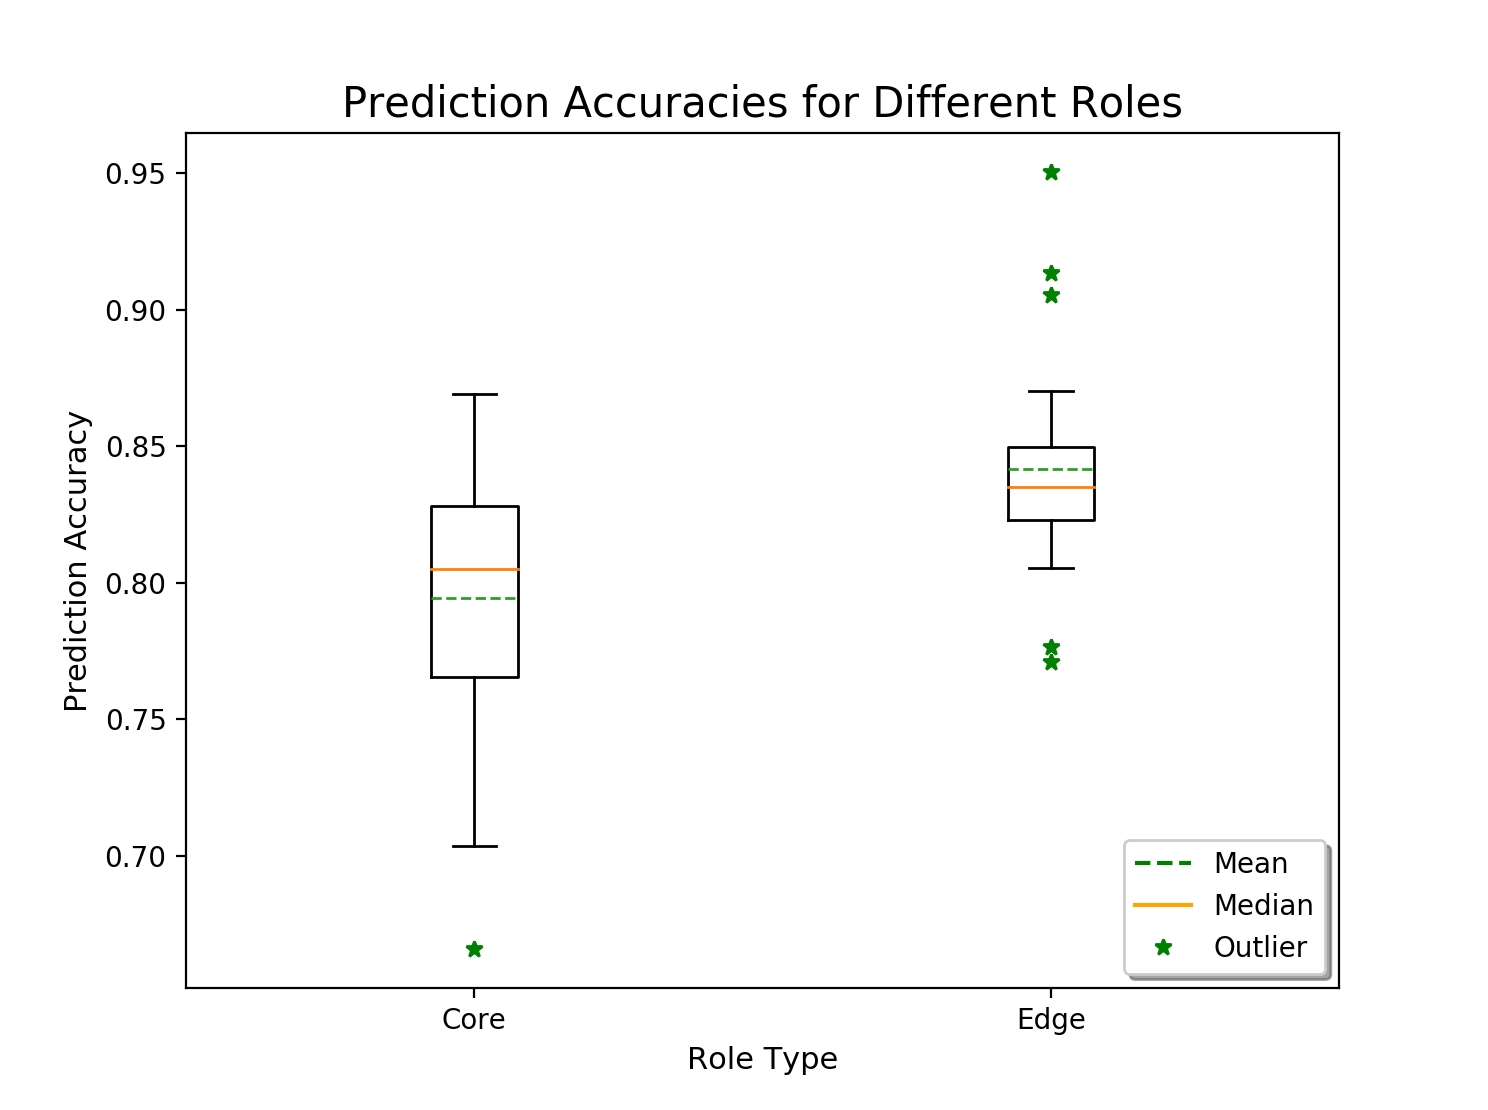
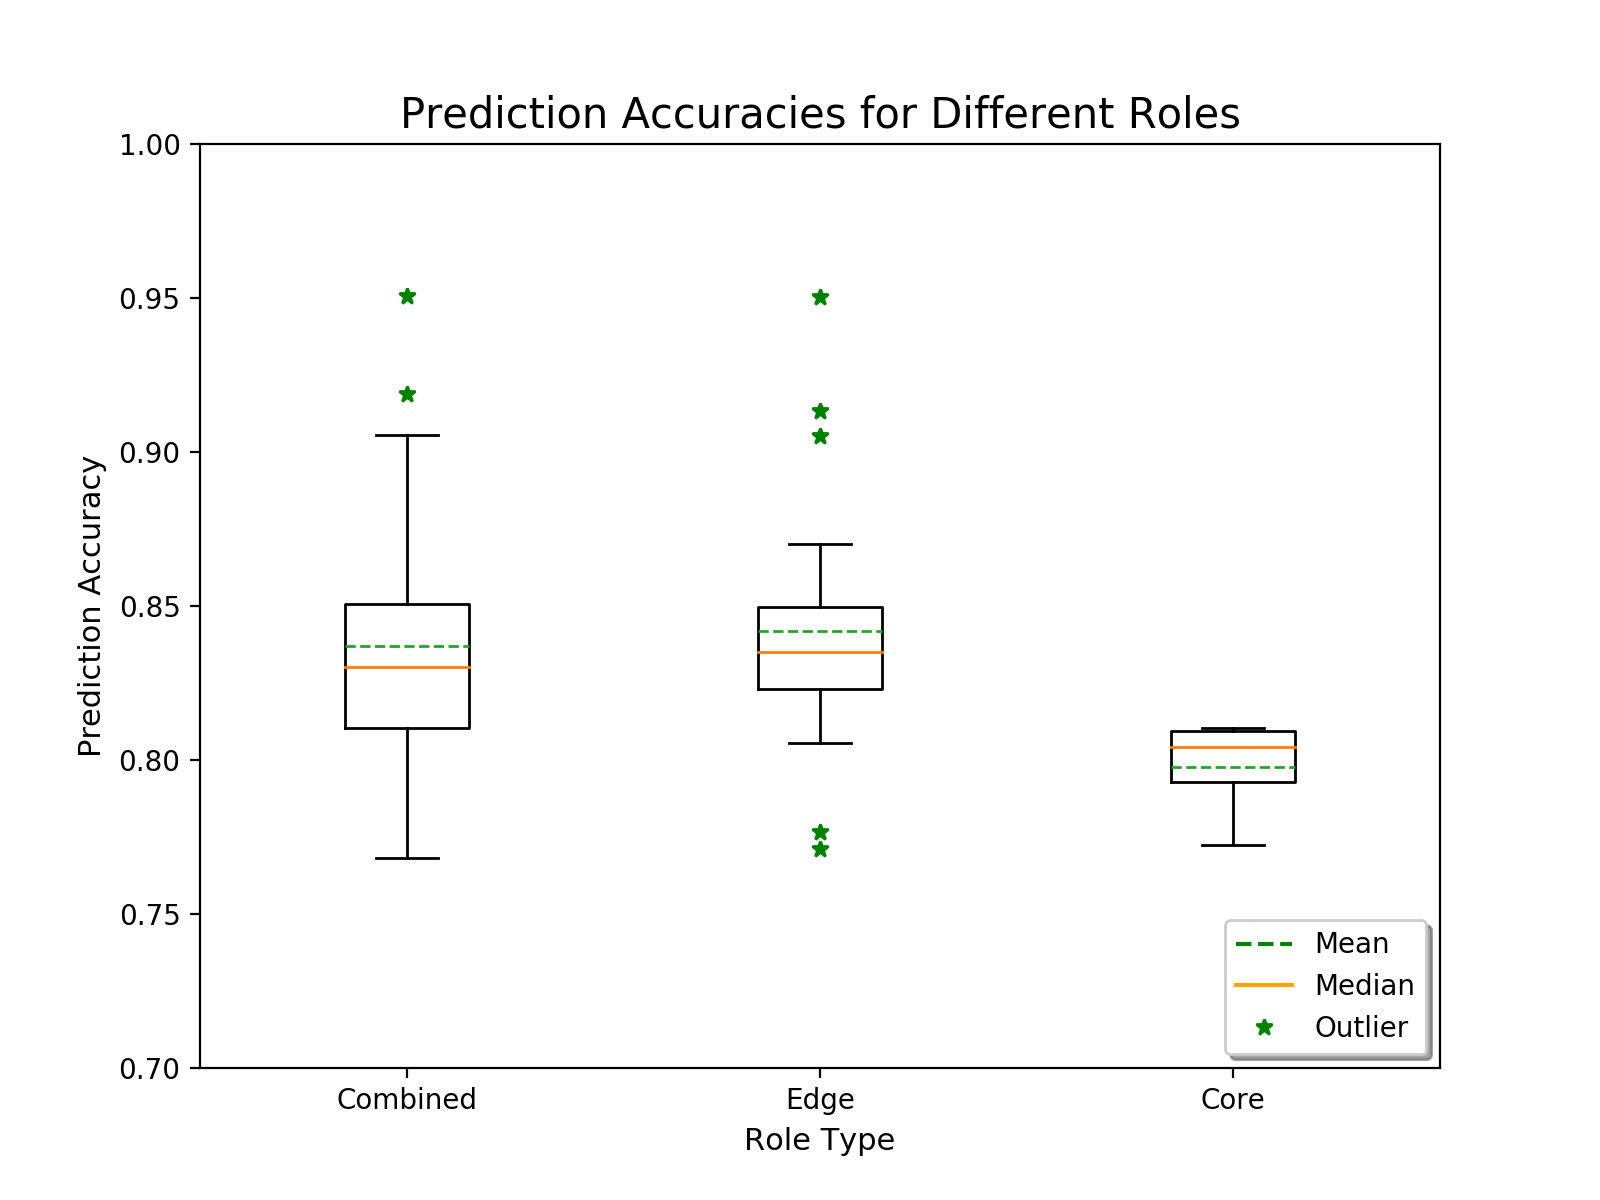
Updating results section

diff --git a/Final-Thesis/evaluation.tex b/Final-Thesis/evaluation.tex
@@ -25,20 +25,34 @@ Initially, without any preprocessing and subnet removal, we observed a maximum a
 
 There were a myriad of analyses we performed in order to test the efficacy of an ngram-based engine as described in the previous section. In this paper we discuss some which produced interesting results.
 
-\subsection{Role-Based}
+\subsubsection{Role-Based}
 
 \begin{figure}[H]
 	\centering
 	\includegraphics[width=\textwidth]{roles.png}
-	\caption{Accuracies of models were trained on core and edge routers only.}
+	\caption{Accuracies of models were trained on core and edge routers only, with the first boxplot showing the combined training set}
 \end{figure}
 
-Training models based on different roles improved accuracies in some cases but not others.
+Splitting by roles did not result in an improvement in accuracy like we expected. There are a few factors that could be contributing to this result. It might be possible that there is not much variation in the two roles to begin with. We were assuming that the suggestions generated by the "combined" version would contain the tokens for both edge routers and core routers which would reduce the chances of the correct one cropping up in the top 3 suggested tokens. However, the results show that after separation, edge routers did not fare any better and core routers actually did worse. We also beleive that this may be a problem of the labels/roles being coarsely defined as we were relying on the names of the routers to separate them. It is entirely possible that network operators may be labeling the routers as a rough approximation of their intended roles. Thus researchers may need to figure out a more fine grained way about dividing them.
 
-\subsection{histories}
+\subsubsection{histories}
 
-As we had extensive data from University A's version control system, we analyzed the effect of selecting configurations across time on prediction accuracies. The x-axis of the graph shows the number of months we chose to train on.
+\begin{figure}[H]
+	\centering
+	\includegraphics[width=\textwidth]{time.png}
+	\caption{Longer histories may not result in higher accuracies.}
+\end{figure}
 
-\subsection{Per-Stanza}
+As we had extensive data from University A's version control system, we analyzed the effect of selecting configurations across time on prediction accuracies. The x-axis of the graph shows the number of months we chose to train on. As is apparent from the image, if we train on longer configuration histories our accuracies stay about the same. In fact, we see a slight decrease which may be attributed to the variation introduced by the increased data points. We do expect some change in the configurations over time as the university networks evolve. However, these changes tend to be small and homogeneous as the analyses from from ~\cite{Kim} inform us. Thus, our model does not need to consider configurations across 4 years for this university.
 
-\subsection{No starting datat}
+\subsubsection{Number of Devices}
+\begin{figure}[H]
+	\centering
+	\includegraphics[width=\textwidth]{time.png}
+	\caption{Training across more devices does improve accuracy to a certain point.}
+\end{figure}
+
+As we add configurations from more devices to our training set, we see a slight increase in accuracy before it starts to give us diminishing returns. Depending on the types of devices being added to the training set, we could be adding more noise.
+
+
+Our analyses showed that across both dimensions of time and length, the NLP algorithm is resistant to data scarcity
